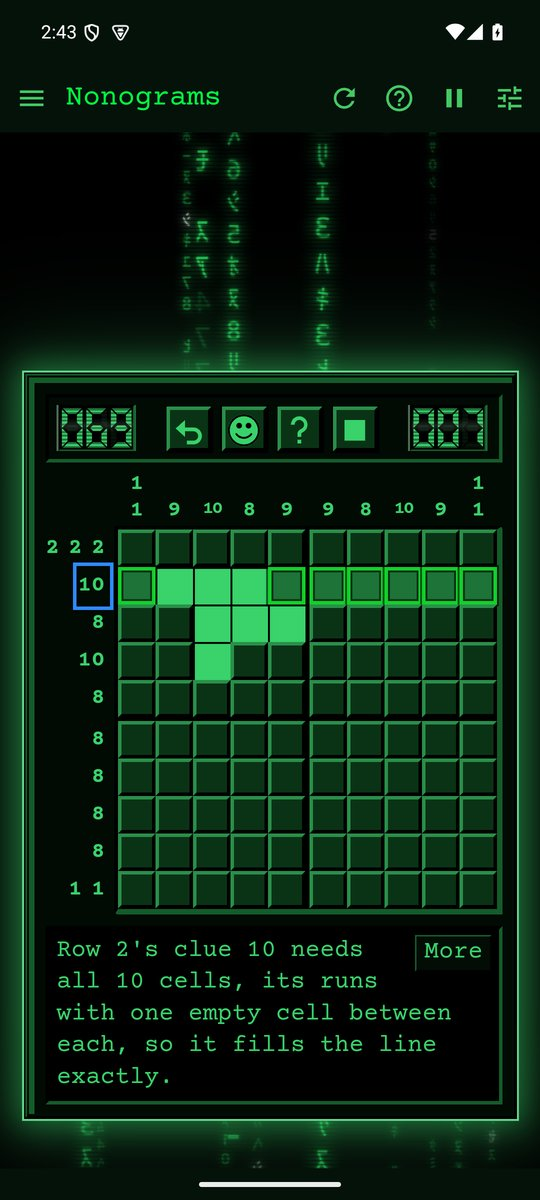
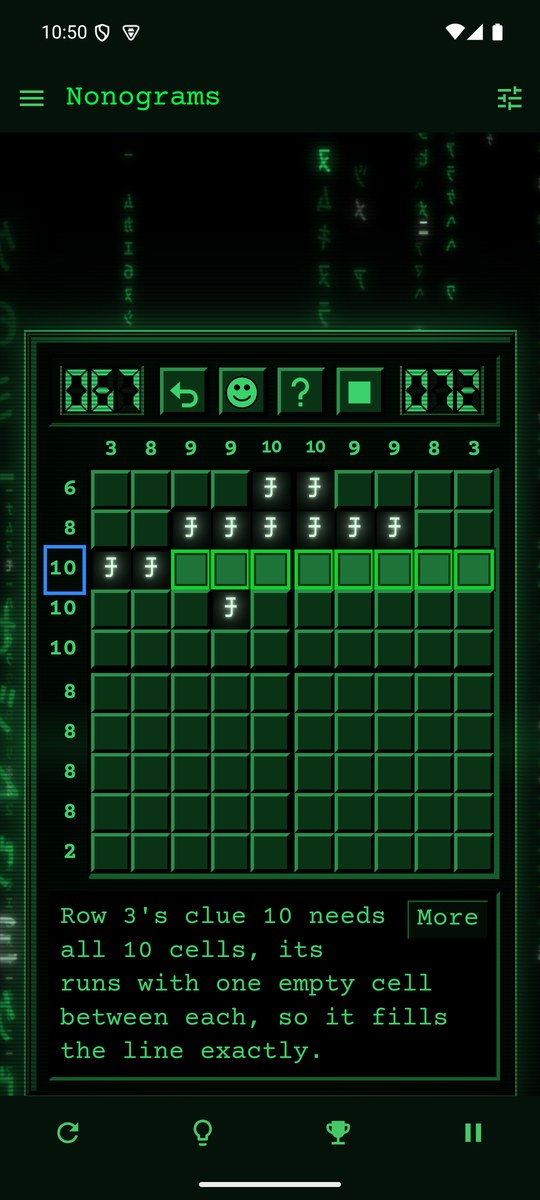
Readme pictures retaken on the emulator with the bottom bar, the side panel's seven games and Live wallpaper, the options' Motion and Glitches, and the wallpaper on a home screen with its settings; the text brought up to date and a script for the pictures

diff --git a/tools/readme-shots.py b/tools/readme-shots.py
@@ -1,0 +1,159 @@
+#retakes the readme's pictures (docs/android) on a running emulator with the debug build installed
+#py -3 tools/readme-shots.py [names...]; needs what droid.py needs
+import os, re, subprocess, sys, time
+sys.path.insert(0, os.path.dirname(os.path.abspath(__file__)))
+import droid as d
+from PIL import Image
+
+DOCS = os.path.join(os.path.dirname(os.path.abspath(__file__)), '..', 'docs', 'android')
+ONLY = sys.argv[1:]
+WALLPAPER = d.PKG + '/io.github.fexofenadine.puzzlesplus.PuzzlesWallpaper'
+SETTINGS = d.PKG + '/io.github.fexofenadine.puzzlesplus.WallpaperSettings'
+
+
+def save(name):
+    #the screen at half size, as a jpeg for the readme
+    png = d.shot(name)
+    Image.open(png).save(os.path.join(DOCS, name + '.jpg'), quality=88)
+    os.remove(png)
+    print('wrote', name)
+
+
+def key(pg, k):
+    pg.ev("window.dispatchEvent(new KeyboardEvent('keydown', { key: %r, keyCode: %d, which: %d, bubbles: true })); 1" % (k, ord(k.upper()), ord(k.upper())))
+    time.sleep(0.4)
+
+
+def hints(pg, steps):
+    #the game's own hint, its first cell tapped, so many times
+    for _ in range(steps):
+        key(pg, 'h')
+        try:
+            pg.hit('[class*=hintPlace]')
+        except RuntimeError:
+            break
+        time.sleep(0.3)
+
+
+def ui(text):
+    #where android's own screens show a text, from a layout dump
+    d.adb('shell', 'uiautomator', 'dump', '/sdcard/ui.xml')
+    xml = d.adb('shell', 'cat', '/sdcard/ui.xml')
+    m = re.search(r'text="%s"[^>]*bounds="\[(\d+),(\d+)\]\[(\d+),(\d+)\]"' % re.escape(text), xml)
+    if not m:
+        return None
+    x1, y1, x2, y2 = map(int, m.groups())
+    return (x1 + x2) / 2, (y1 + y2) / 2
+
+
+def go(pg, path, store):
+    #a page with a fresh game: a game kept from before comes back paused, so it is resumed
+    pg = d.goto(pg, path, store)
+    try:
+        pg.hit('[title="Resume (P)"]')
+    except RuntimeError:
+        pass
+    time.sleep(0.5)
+    return pg
+
+
+SHOTS = []
+def shot(f):
+    SHOTS.append(f)
+    return f
+
+
+@shot
+def minesweeper_classic(pg):
+    pg = go(pg, 'minesweeper/index.html', {'theme': 'classic', 'level': 'beginner'})
+    pg.hit('[class*=Game_field]')
+    time.sleep(1)
+    save('minesweeper-classic')
+    return pg
+
+
+@shot
+def minesweeper_synthwave(pg):
+    pg = go(pg, 'minesweeper/index.html', {'theme': 'synthwave', 'level': 'beginner'})
+    pg.hit('[class*=Game_field]')
+    time.sleep(0.5)
+    key(pg, 'h')
+    time.sleep(2)
+    save('minesweeper-synthwave')
+    return pg
+
+
+@shot
+def drawer(pg):
+    pg = go(pg, 'sudoku/index.html', {'theme': 'synthwave'})
+    pg.hit('button[title=Menu]')
+    time.sleep(1)
+    save('drawer')
+    d.back()
+    return pg
+
+
+@shot
+def options(pg):
+    pg = go(pg, 'minesweeper/index.html', {'theme': 'synthwave'})
+    pg.hit('button[title=Options]')
+    time.sleep(1.2)
+    save('options')
+    d.back()
+    return pg
+
+
+@shot
+def nonograms_matrix(pg):
+    pg = go(pg, 'nonograms/index.html', {'theme': 'matrix', 'nonograms.size': '10', 'nonograms.rain': 'on'})
+    hints(pg, 10)
+    key(pg, 'h')
+    time.sleep(1.5)
+    save('nonograms-matrix')
+    return pg
+
+
+@shot
+def wallpaper(pg):
+    #its settings, on vaporwave, then the wallpaper set on the home screen
+    d.adb('shell', 'am', 'start', '-n', SETTINGS)
+    time.sleep(7)
+    d.tap(830, 312)
+    time.sleep(1.5)
+    where = ui('Vaporwave')
+    if where:
+        d.tap(*where)
+    time.sleep(4)
+    save('wallpaper-settings')
+    d.back()
+    d.adb('shell', 'am', 'start', '-a', 'android.service.wallpaper.CHANGE_LIVE_WALLPAPER',
+          '--ecn', 'android.service.wallpaper.extra.LIVE_WALLPAPER_COMPONENT', WALLPAPER)
+    time.sleep(8)
+    where = ui('Set wallpaper')
+    if where:
+        d.tap(*where)
+        time.sleep(2)
+        for choice in ('Home screen', 'Home and lock screens'):
+            spot = ui(choice)
+            if spot:
+                d.tap(*spot)
+                break
+    time.sleep(3)
+    d.adb('shell', 'input', 'keyevent', 'KEYCODE_HOME')
+    time.sleep(6)
+    save('wallpaper-home')
+    d.start()
+    return d.Page()
+
+
+if __name__ == '__main__':
+    #the system's own font size, as most phones have it
+    d.adb('shell', 'settings', 'put', 'system', 'font_scale', '1.0')
+    d.start()
+    d.rotate(False)
+    pg = d.Page()
+    for f in SHOTS:
+        if ONLY and f.__name__ not in ONLY:
+            continue
+        pg = f(pg)
+    print('page errors:', pg.logs or 'none')

diff --git a/README.md b/README.md
@@ -2,13 +2,15 @@
 
 # Puzzles Plus for Android
 
-Minesweeper, Takuzu, Nonograms, Sudoku, 2048, Light Up and Futoshiki in a Windows 95 style, with hints that explain their reasoning and boards you can solve by logic alone, as an Android app. It is the [Puzzles Plus website](https://fexofenadine.github.io/puzzlesplus/) ([source](https://github.com/fexofenadine/puzzlesplus)) made for phones: the same games, nine themes and animated backgrounds, guides and best times, all inside the app so it plays offline.
+Minesweeper, Takuzu, Nonograms, Sudoku, 2048, Light Up and Futoshiki in a Windows 95 style, with hints that explain their reasoning and boards you can solve by logic alone, as an Android app. It is the [Puzzles Plus website](https://fexofenadine.github.io/puzzlesplus/) ([source](https://github.com/fexofenadine/puzzlesplus)) made for phones: the same games, nine themes and animated backgrounds, guides and best times, all inside the app so it plays offline, and the backgrounds as a live wallpaper.
 
 **[Download the latest release](https://github.com/fexofenadine/puzzlesplus-android/releases/latest)**
 
-| Minesweeper on Classic                                          | Synthwave                                                           | The menu                             | Options                              | Nonograms on Matrix, with a hint                          |
-| --------------------------------------------------------------- | ------------------------------------------------------------------- | ------------------------------------ | ------------------------------------ | --------------------------------------------------------- |
-| ![Minesweeper on Classic](docs/android/minesweeper-classic.jpg) | ![Minesweeper on Synthwave](docs/android/minesweeper-synthwave.jpg) | ![The menu](docs/android/drawer.jpg) | ![Options](docs/android/options.jpg) | ![Nonograms on Matrix](docs/android/nonograms-matrix.jpg) |
+| Minesweeper on Classic                                          | Synthwave, with a hint                                              | Nonograms on Matrix, with a hint                                 | The menu                             |
+| --------------------------------------------------------------- | ------------------------------------------------------------------- | ---------------------------------------------------------------- | ------------------------------------ |
+| ![Minesweeper on Classic](docs/android/minesweeper-classic.jpg) | ![Minesweeper on Synthwave](docs/android/minesweeper-synthwave.jpg) | ![Nonograms on Matrix](docs/android/nonograms-matrix.jpg)        | ![The menu](docs/android/drawer.jpg) |
+| **Options**                                                     | **The live wallpaper on the home screen**                           | **The wallpaper's settings**                                     |                                      |
+| ![Options](docs/android/options.jpg)                            | ![The live wallpaper](docs/android/wallpaper-home.jpg)              | ![The wallpaper's settings](docs/android/wallpaper-settings.jpg) |                                      |
 
 ## Installing
 
@@ -20,16 +22,17 @@ Android 6 or later. Each release lists its APK's SHA-256, so you can check the d
 
 ## On a phone
 
-- **The game fills the screen** under a top bar in the theme's colours with new game, hint, pause and options. Wide boards turn on their side in portrait.
-- **The menu** (the button at the top left) lists the seven games, any games you saved to resume later, each game's guide, how to play and About.
-- **Options** (the button at the top right) hold the game's difficulty, size and options (Nonograms adds Procedural, Symmetric and Choose picture), then the nine themes, **Fireworks**, a slider for the window's opacity, Animated background, Hide window, Board without frame and the background settings. The look follows the theme: Windows 95 on Classic, material design on the others.
+- **The game fills the screen** between a top bar in the theme's colours (the menu, the game's name and its options) and a bottom bar with new game, hint, best times and pause; held sideways the two run down the sides. Wide boards turn on their side in portrait, and two fingers pinch a board bigger, with a button to fit it again.
+- **The menu** (the button at the top left) lists the seven games, any games you saved to resume later, the game's guide, how to play every game, Backup, Live wallpaper and About.
+- **Options** (the button at the top right) hold the game's difficulty, size and options (Nonograms adds Procedural, Symmetric and Choose picture), then the nine themes, **Fireworks**, **Motion** (system, reduced or full), a slider for the window's opacity, Animated background, Hide window, Board without frame, the background settings and, on Synthwave, Vaporwave and Matrix, **Glitches**, which switches each screen effect on or off. The look follows the theme: Windows 95 on Classic, material design on the others.
 - **Fireworks** in the theme's colours go up when you win, until the next game starts.
+- **Live wallpaper**: any theme's animated background on the home screen, with its scanlines, tape look and glitches. Open it from the menu, or pick Puzzles Plus among the phone's live wallpapers. Its settings choose the theme or a random one every few minutes, the background's options, each glitch, the frame rate (60 a second at first) and a drift as you swipe between home screens. It draws nothing while an app covers the home screen or the screen is off.
 - **The back button** closes the menu or a dialog first, then leaves the app; a guide's back goes to its game.
-- The phone's status and navigation bars take the theme's colour, and the system font size leaves the games' pixel layout alone.
+- The phone's status and navigation bars take the theme's colour, and the system font size grows the menus, bars and dialogs but leaves the games' pixel layout alone.
 - **Resume**: a game in progress comes back paused after the app is closed, and a **Timer** option turns the clock off (and best times with it).
 - No taskbar, Start menu, boss key or window buttons: those belong to the website's desktop.
 
-Everything else, from the rules to every solving technique, is in each game's guide, in the app's menu or on the website: [Minesweeper](https://fexofenadine.github.io/puzzlesplus/minesweeper/guide/), [Takuzu](https://fexofenadine.github.io/puzzlesplus/takuzu/guide/), [Nonograms](https://fexofenadine.github.io/puzzlesplus/nonograms/guide/), [Sudoku](https://fexofenadine.github.io/puzzlesplus/sudoku/guide/) and [2048](https://fexofenadine.github.io/puzzlesplus/2048/guide/).
+Everything else, from the rules to every solving technique, is in each game's guide, in the app's menu or on the website: [Minesweeper](https://fexofenadine.github.io/puzzlesplus/minesweeper/guide/), [Takuzu](https://fexofenadine.github.io/puzzlesplus/takuzu/guide/), [Nonograms](https://fexofenadine.github.io/puzzlesplus/nonograms/guide/), [Sudoku](https://fexofenadine.github.io/puzzlesplus/sudoku/guide/), [2048](https://fexofenadine.github.io/puzzlesplus/2048/guide/), [Light Up](https://fexofenadine.github.io/puzzlesplus/lightup/guide/) and [Futoshiki](https://fexofenadine.github.io/puzzlesplus/futoshiki/guide/).
 
 ## Building
 
@@ -47,7 +50,9 @@ gradlew assembleRelease   #app/build/outputs/apk/release/puzzlesplus-<version>.a
 
 The version comes from `package.json`. Release builds are signed with the key that `~/.android/puzzlesplus-release.properties` names (`storeFile`, `storePassword`, `keyAlias`, `keyPassword`), which stays out of the repository. The icon, launcher icons and splash screens are drawn by `src/shell/icon.py`.
 
-The phone layer is kept to a few files (`src/shell/phone.js`, `src/shell/PhoneBar.jsx`, each game's `PhoneMenu.jsx`, `capacitor.config.json` and `android/`), so changes to the games are made in [fexofenadine/puzzlesplus](https://github.com/fexofenadine/puzzlesplus) and merged in from there.
+The phone layer is kept to a few files (`src/shell/phone.js`, `src/shell/PhoneBar.jsx`, each game's `PhoneMenu.jsx`, `capacitor.config.json` and `android/`), so changes to the games are made in [fexofenadine/puzzlesplus](https://github.com/fexofenadine/puzzlesplus) and merged in from there. The live wallpaper is the website's screensaver page (`src/screensaver`) in a webview, drawn by `PuzzlesWallpaper.java` with its settings in `WallpaperSettings.java`.
+
+`tools/droid.py` drives the debug build on an emulator or phone, and `tools/readme-shots.py` retakes the pictures above with it.
 
 ## Credits
 
